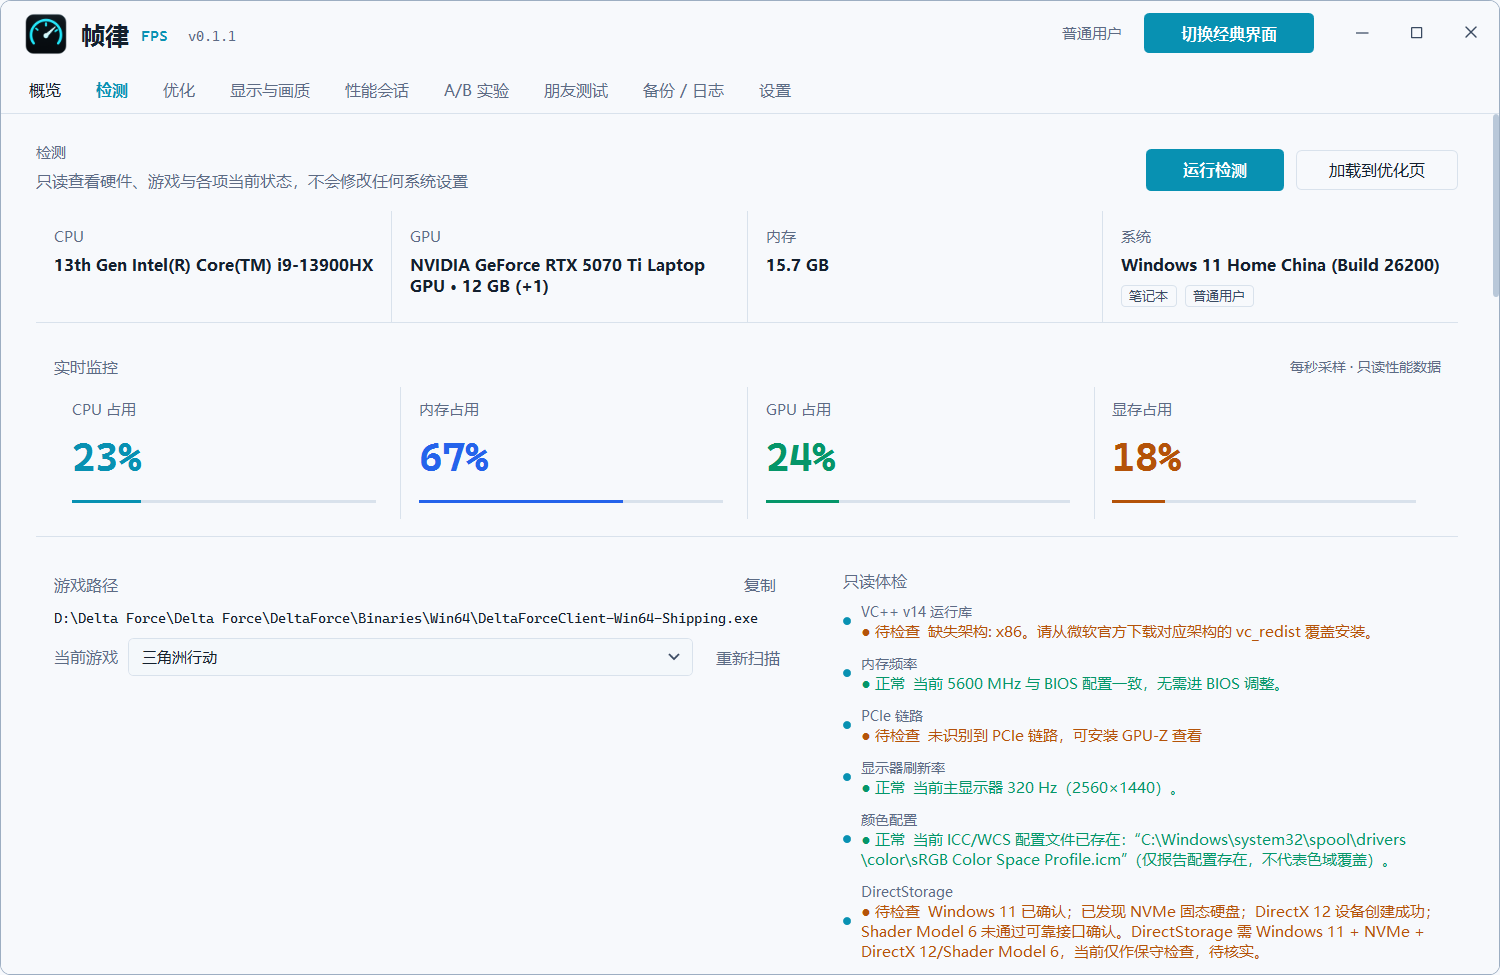
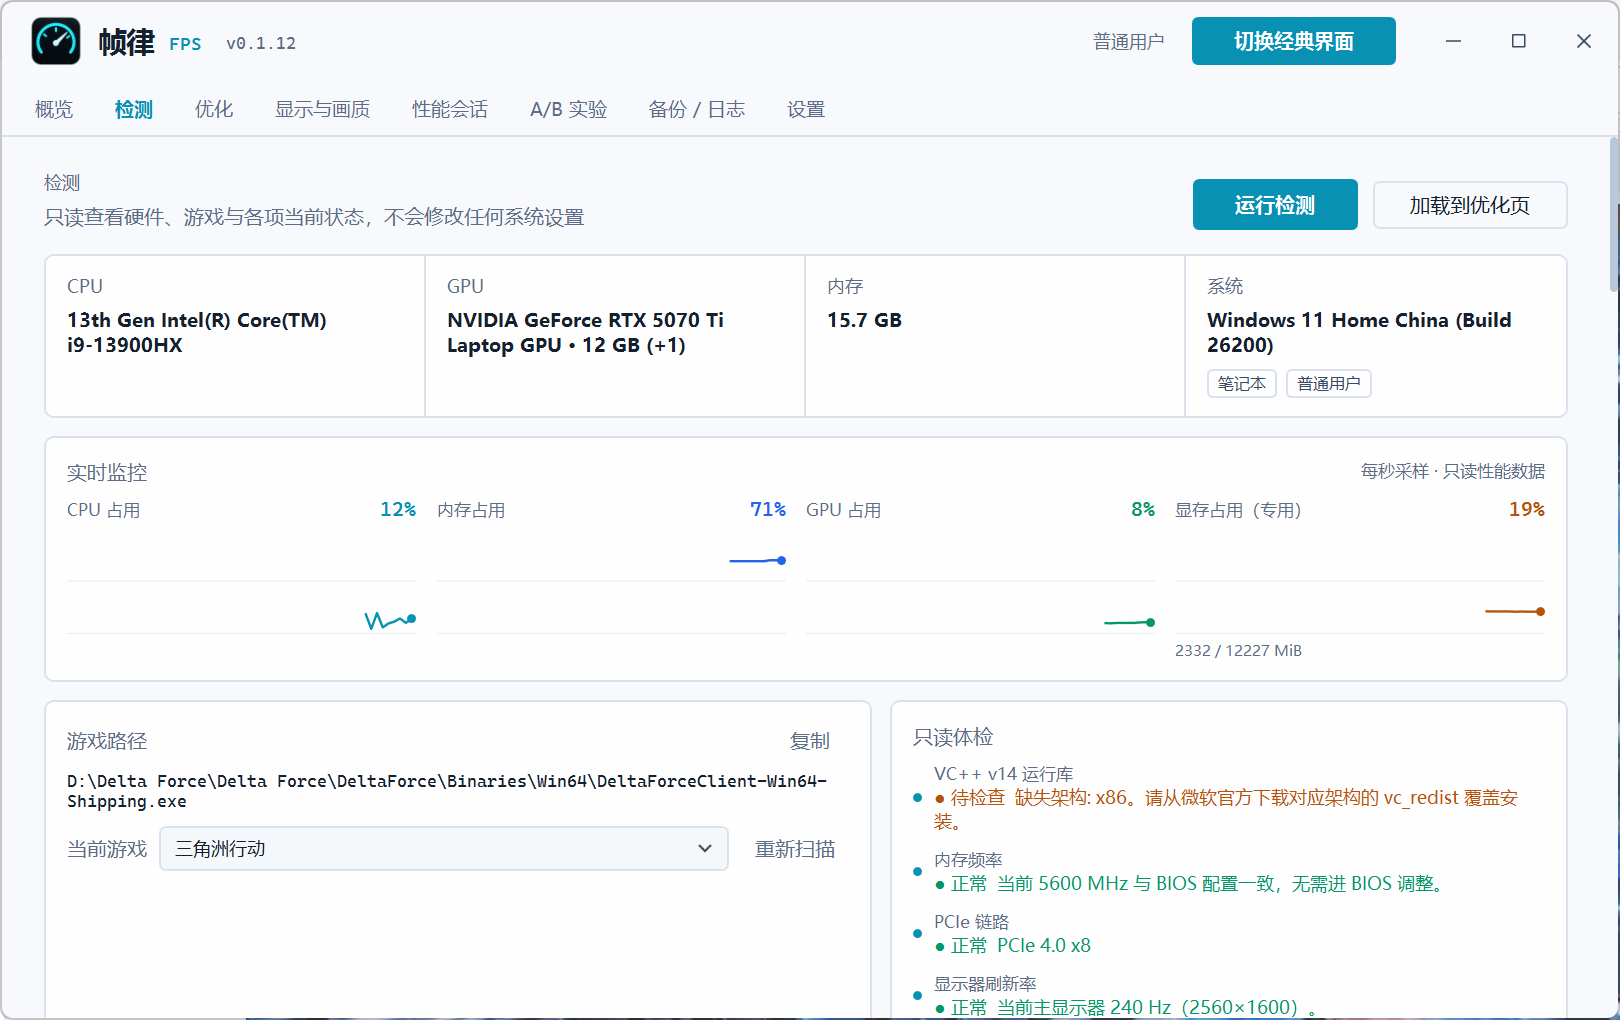
docs(readme): 界面截图全部重截为 0.1.12 实际界面 + 描述校准 + 发现 console 缺首次引导
为什么：
- 旧截图是 0.1.1 时代（导航含已移除的「朋友测试」、v0.1.1 版本号），且 01 号图
  实为优化页；本轮界面大改后图文不符，需重截。
- 「显示与画质」描述仍写 5 个页签（数字振动与 ICC 已合并为「振动与 ICC」，现为
  4 签 + 状态徽标），驱动 3D 也已改为两列布局。
- 首次启动有引导不成立于默认模式：该引导只挂在经典概览（HomeView），
  默认控制台概览只有「基础建议」直接跳优化、不跑检测——已如实改写 README
  口径，并把产品侧缺口立为 backlog P3-9（等用户定）。

怎么验的：
- 五张新图由脚本截取真实运行实例（D:\FpsTune，v0.1.12）——固定窗口 1620x1020、
  浅色主题、逐页真实数据（概览 8/33、检测含实时曲线与只读体检、优化 27 项待应用、
  会话历史、A/B 基线+G1/G2/G3 判定），逐张目检完整无裁切。
- README 数字声明复核：catalog 实测 33 项 / 22 项需管理员 / 13 项需重启 /
  均衡预设 27 项，与原文逐项一致（无需改）。
- 首次引导的代码路径逐处核对（HomeView.xaml.cs / StateStore / MainWindow
  RunOnboardingAsync vs ConsoleView.PrepareDelta_Click）。

diff --git a/README.en.md b/README.en.md
@@ -58,14 +58,18 @@ asks for consent and verifies SHA-256 first.
 |---|---|
 | ![Sessions](assets/screenshots/04-session.png) | ![A/B experiment](assets/screenshots/05-ab-experiment.png) |
 
-Also included: **display & quality** (sub-tabbed: DLSS preset override / digital vibrance / ICC
-filter — including applying your own `.icc` / `.icm` calibration file — / per-game driver 3D
-settings / a vendor-specific in-driver manual checklist / driver version advice, all read-only
-guidance and reversible), backups & logs (audit of every write plus a backup-file status list so
-consumed `.restored` files are obvious), a PresentMon pre-check on the A/B page (gives the official
-install command when missing — the tool never installs it for you), and settings (theme / tray /
-global hotkey Ctrl+Alt+F / per-game auto-apply profiles).
-Dark, light and system themes; borderless custom title bar; splash screen; first-run guided setup.
+Also included: **display & quality** (four tabs: DLSS preset override / vibrance & ICC — a
+digital-vibrance slider plus applying your own `.icc` / `.icm` calibration file / per-game driver
+3D settings / advice & checklist — a vendor-specific in-driver manual checklist and driver version
+advice; each tab shows a live status badge so you can see every group's state without opening it,
+all read-only guidance and reversible), backups & logs (audit of every write plus a backup-file
+status list so consumed `.restored` files are obvious), a PresentMon pre-check on the A/B page
+(gives the official install command when missing — the tool never installs it for you), and
+settings (theme / tray / global hotkey Ctrl+Alt+F / per-game auto-apply profiles).
+Dark, light and system themes; borderless custom title bar; a splash screen with real startup-phase
+progress; the classic overview offers a first-run "detect → optimize" guide, while the console overview
+gives one-click basic advice (game mode / background recording / GPU preference — three
+game-agnostic settings).
 
 ## Quick start
 
@@ -137,7 +141,7 @@ FpsTune.Wpf/
   Core/                       OptimizationCatalog / NativeOptimizationEngine /
                               BackupService / DetectionService / ExperimentRunner
   Services/                   theme / settings / CLI host / update check
-  Views/                      WPF views (console and classic layouts)
+  Views/                      WPF views (overview page has two forms: console / classic)
 FpsTune.Wpf.Tests/            unit tests, incl. catalog consistency guards
 TESTING.md                    external testing guide: full A/B, or a minimal data template
 installer/                    Inno Setup packaging

diff --git a/docs/dev/PLAN-backlog.md b/docs/dev/PLAN-backlog.md
@@ -104,6 +104,7 @@ P2-7（国际化）已按用户决定**暂停**。
 | P3-5 | **启动基线测量** | 用 A/B 页自测"进程启动 → 主窗可交互"耗时基线（数据说话）；仅在数据表明必要时再动启动链路 | **完成**（2026-09-28：5 次实测中位 **1222 ms**（1188–1257），`error.log` 不变；数据健康，**不动启动链路**） |
 | P3-6 | **P2-7 国际化重启** | 前置条件：**用户点名**。基线 1000 处，按页推进（设置页 → 概览） | 暂停 |
 | P3-7 | **P2-2 / P2-4 可引用数据与更多显示项** | 前置条件：真实 A/B 数据（用户已取消 P0-2）或明确决定放弃该前提 | 暂缓 |
+| P3-9 | **控制台概览缺首次引导** | README 核对时发现：首次启动引导只挂在经典概览（HomeView「开始优化」→ `RunOnboardingAsync`：检测 → 优化）；**默认**的控制台概览（ConsoleView）只有「基础建议」直接跳优化页选中三项、**不跑检测**——默认模式下新用户拿不到「先检测再优化」的引导。建议：console 首次进入给等效入口或提示（属产品行为，等用户定） | 未开始（等用户定） |
 | P3-8 | **CODE-HEALTH 复测（方法级分布）** | 2026-09-27 已复测全量指标（行数/测试数/dist/大文件，见 `CODE-HEALTH.md`）；**方法长度分布**（总数/中位数/≥60 行）仍是 0.1.4 时点数字，需用同一口径脚本重测一次落盘 | **完成**（2026-09-28：`tools/methlen.py` 固化口径，0.1.4 树 7 锚点校准全中；当前树 784 方法 / 中位 12 / ≥60 行 35 个 / 最长 248；旧记录"最长 180"系脚本缺陷已更正，见 `CODE-HEALTH.md`） |
 
 ---
